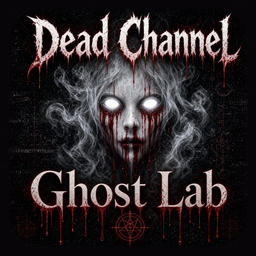
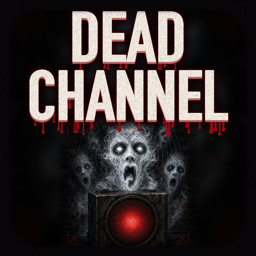
Change the home hero title to A Tool for Any Kind of Paranormal Hunt! (#64)
Squash of PR #64: capitalized home hero H1 (A Tool for Any Kind of Paranormal Hunt!), updated Dead Channel site icon, and larger bold tap-a-phone caption. CSP unchanged. Jack approved merge and Cloudflare purge at 9:08 PM ET (t163u).

diff --git a/index.html b/index.html
@@ -113,8 +113,8 @@
       margin: 18px 0 0;
       text-align: center;
       color: rgba(255, 255, 255, 0.78);
-      font-size: 0.95rem;
-      font-weight: 600;
+      font-size: 1.25rem;
+      font-weight: 700;
       letter-spacing: -0.01em;
     }
     /* Toolkit phone: main Investigate home, then the All Hallows skin. */
@@ -223,7 +223,7 @@
               </a>
             </div>
           </div>
-          <h1>Any kind of hunt.<br />A tool for it.</h1>
+          <h1>A Tool for Any Kind<br />of Paranormal Hunt!</h1>
           <p class="lede hero-lede">
             <span class="hero-lede-tools">Spirit box, LiDAR, AI visions, a grid that logs every break, or the full Investigate kit.</span>
             <span class="hero-lede-privacy">GhostLab has the app. You decide what it means.</span>
@@ -422,7 +422,7 @@
           <div class="download-family">
             <p class="download-family-label">Also from GhostLab</p>
             <div>
-              <img class="download-family-icon" src="assets/sphere/deadchannel.png?v=20261002-cache" width="64" height="64" alt="Dead Channel app icon" loading="lazy" />
+              <img class="download-family-icon" src="assets/sphere/deadchannel.png?v=20261112-dcicon" width="64" height="64" alt="Dead Channel app icon" loading="lazy" />
               <h3>Dead Channel</h3>
               <p>A spirit box for iPhone, iPad, and Android.</p>
               <div class="hero-actions">

diff --git a/halloween-ghost-hunt.html b/halloween-ghost-hunt.html
@@ -554,7 +554,7 @@
           </article>
 
           <article class="hh-step reveal" id="step-3">
-            <div class="hh-step-icon"><img src="assets/sphere/deadchannel.png?v=20261002-cache" width="64" height="64" alt="GhostLab: Dead Channel app icon" /></div>
+            <div class="hh-step-icon"><img src="assets/sphere/deadchannel.png?v=20261112-dcicon" width="64" height="64" alt="GhostLab: Dead Channel app icon" /></div>
             <div>
               <p class="hh-step-n">Step 3</p>
               <h3>Do a Dead Channel spirit box session</h3>
@@ -737,7 +737,7 @@
               </div>
             </div>
             <div class="hh-app">
-              <img class="hh-app-icon" src="assets/sphere/deadchannel.png?v=20261002-cache" width="56" height="56" alt="GhostLab: Dead Channel app icon" />
+              <img class="hh-app-icon" src="assets/sphere/deadchannel.png?v=20261112-dcicon" width="56" height="56" alt="GhostLab: Dead Channel app icon" />
               <h3>GhostLab: Dead Channel</h3>
               <p>Spirit box app with eight voice banks. iPhone, iPad and Android. 48 hours free, then $7.99 once.</p>
               <div class="hh-store">

diff --git a/apps.html b/apps.html
@@ -254,7 +254,7 @@
 
           <!-- Dead Channel: live on the App Store and Google Play -->
           <article class="sphere-card reveal">
-            <img class="sphere-icon" src="assets/sphere/deadchannel.png?v=20261002-cache" width="72" height="72" alt="GhostLab: Dead Channel icon" />
+            <img class="sphere-icon" src="assets/sphere/deadchannel.png?v=20261112-dcicon" width="72" height="72" alt="GhostLab: Dead Channel icon" />
             <div class="sphere-body">
               <h3>GhostLab: Dead Channel</h3>
               <p>A spirit box built from eight voice banks. Ask your question out loud, then listen for broken words and whispers.</p>

diff --git a/dead-channel.html b/dead-channel.html
@@ -416,7 +416,7 @@
 
       <section class="section section-sm" id="download">
         <div class="final-cta reveal">
-          <img class="dc-cta-icon" src="assets/sphere/deadchannel.png?v=20261002-cache" width="88" height="88" alt="" />
+          <img class="dc-cta-icon" src="assets/sphere/deadchannel.png?v=20261112-dcicon" width="88" height="88" alt="" />
           <h2>Bring it to your next hunt.</h2>
           <p class="lede">GhostLab: Dead Channel is on the App Store for iPhone and iPad and on Google Play for Android. It runs on its own, next to GhostLab: Paranormal Toolkit or any other kit you carry.</p>
           <div class="hero-actions">
